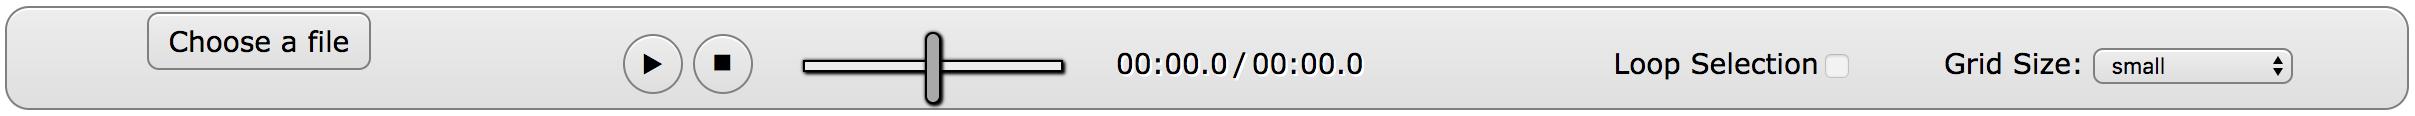
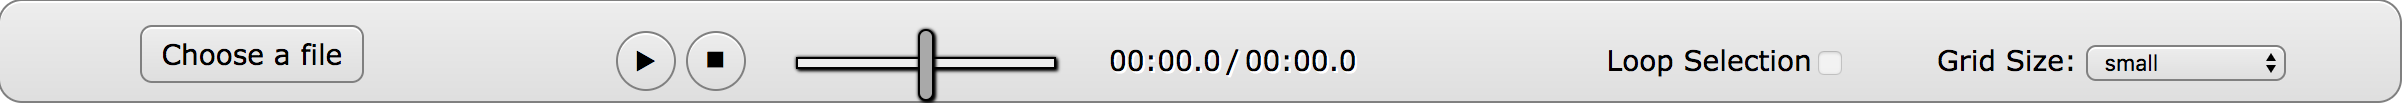
new images and new instructions

diff --git a/instructions.html b/instructions.html
@@ -35,18 +35,26 @@ contact: sascha.bilert@student.jade-hs.de
     <!-- link to css style -->
     <link rel="stylesheet" href="css/master.css" type="text/css">
     <link rel="stylesheet" href="css/instructionsstyle.css" type="text/css">
-    <link rel="stylesheet" href="assets/rainbow/themes/github.css" type="text/css">
+    <link rel="stylesheet" href="assets/rainbow/themes/github.css" type="text/css" media="screen">
 
     <!-- import image for tab icon -->
     <link rel="icon" type="image/png" href="image/icon.png">
 
+    <!-- import audioprocessing for plotly -->
     <script type="text/javascript" src="js/audioprocessing.js"></script>
-    <!-- include plotly latest version to visulize Data -->
+
+    <!-- import plotly latest version to visulize Data -->
     <script type="text/javascript" src="https://cdn.plot.ly/plotly-latest.min.js"></script>
     <script type="text/javascript" src="js/plot.js"></script>
-    <!-- include MathJax to user LateX for Math formular -->
+
+    <!-- import MathJax to user LateX for Math formular -->
     <script type="text/javascript" async src="https://cdn.mathjax.org/mathjax/latest/MathJax.js?config=TeX-MML-AM_CHTML"></script>
     <script type="text/x-mathjax-config">MathJax.Hub.Config({ tex2jax: {inlineMath: [['$','$'], ['\\(','\\)']]} });</script>
+
+    <!-- import rainbow.js and language -->
+    <script type="text/javascript" src="assets/rainbow/dist/rainbow.js"></script>
+    <script type="text/javascript" src="assets/rainbow/language/javascript.js"></script>
+    <script type="text/javascript" src="assets/rainbow/language/generic.js"></script>
 
 </head>
 
@@ -75,6 +83,7 @@ contact: sascha.bilert@student.jade-hs.de
         <li><a class="naviItems" href="#overlap">Overlap</a></li>
         <li><a class="naviItems" href="#displayType">Display-Types</a></li>
         <li><a class="naviItems" href="#colormap">Colormaps</a></li>
+        <li><a class="naviItems" href="#saveSpectrogram">Save Spectrogram</a></li>
     </ul>
 
     <h2>Instructions</h2>
@@ -88,29 +97,29 @@ contact: sascha.bilert@student.jade-hs.de
         to create a easy and useful tool to analyse audio files in terms of magnitude, phase and other values which are displayable and interpretable as an spectrogram. The user is able to apply diffrent settings for various examinations. We tried to
         describe all the parameters in a easy way in the instructions.</p>
     <h3><a id="choosingAFile">Choose a file:</a></h3>
-    <img class="zoomImg" id="choose" src="image/choose2.png">
+    <img class="resizeImg" id="upload" src="image/upload.png">
     <p>If you click on “Choose a file” you are able to import an audio file from you local computer. You can analyse different audio formats e.g. wav or mp3 if the are recognised by your browser
         <a href="https://developer.mozilla.org/en-US/docs/Web/HTML/Supported_media_formats" target="_blank">(Click here for more audio formats)</a>. After you choose a file the waveform and the magintude-spectrum will be calculated and displayed below
         the buttons after the loading screen disappeared. The upload button now shows the name of your uploaded file. By clicking the button again, you can upload a new audio file. Your audio data won’t be saved at any point just analysed.</p>
     <h3><a id="controlBar">Control Bar:</a></h3>
-    <img class="zoomImg" src="image/controlbar.png">
+    <img class="resizeImg" src="image/controlbar.png">
     <p>You can play, pause and stop your uploaded track by using the different buttons in the control bar. Here you also find the button "Choose a file" which was discribed in the section before. You can also adjust the volume by using the volume slider
         next to the stop button. The numbers display the current playback time and the total length of the track in MM:SS:m seperated by a slash. You can use the pause and play button to control the playback signal while you analyse it. It is also possible
         to loop a selected part of the audio file by ticking the box next to "Loop". How to select a part of your audio file is explained in the Waveform section. In case of analysis you can pick a matching grid size for the waveform including small,
         medium and large.
     </p>
     <h3><a id="waveform">Waveform:</a></h3>
-    <img class="zoomImg" src="image/waveform.png">
+    <img class="resizeImg" src="image/waveform.png">
     <p>The Waveform is compound by the linear amplitude (blue) and the RMS (lightblue). The RMS is calculated by $rms = \sqrt{\frac{1}{N}\sum \limits_{i=0}^{N} n_{i}^{2}}$. On the x-axis you have the time scale and on the y-axis you have .... In the upper
         left corner you can see a legend showing your current mouse position when you move over the waveform. The legend includes the time, amplitude and the RMS. When you hit play after uploading a audio file, a red line shows the current time point
         in the waveform. If you click into the waveform and drag your mouse backward or forward you can select a single part of the waveform. When you release the mouse button your selection is shaded in transparent red. If you now hit the play button
         you just play the selected part. It is also possible to use the Loop to repeat the selected audio part.
     </p>
     <h3><a id="spectrogram">Spectrogram:</a></h3>
-    <img class="zoomImg" src="image/spectrum.png">
+    <img class="resizeImg" src="image/spectrum.png">
     <p>The Spectrogram You can zoom in and out in the spectrum by using "Ctrl + mouse wheel" for the time axis and "Shift + mouse wheel" for the frequency axis.</p>
     <h3><a id="parameters">Parameters:</a></h3>
-    <img class="zoomImg" src="image/select.png">
+    <img class="resizeImg" src="image/parameters.png">
     <p>You can change the settings of the spectrum by choosing a block length, an overlap, a window type and a colormap. The default block length is 1024, the default window type is the hann window and the default overlap is 50%. The default type of the
         colormap is Parula, but you can choose between other 3 colormaps. For the spectrum you can choose a min and a max value for the visualization......... Depending on what you want to analyse you can choose the display type. You can visualise the
         spectrum, the phase, the modulation spectrum, the group delay and the instantaneous frequency of the signal.</p>
@@ -122,27 +131,23 @@ contact: sascha.bilert@student.jade-hs.de
     <p>HERE COMES AN EXPLANATION WHY THE WINDOW IS IMPORTANT FOR THE ANALYSIS</p>
     <h4>1. Rect Window</h4>
     <p class="windowDef">The Rect Window is defined by: $w(n) = 1$</p>
-    <div class="windows">
-        <div class="plot" id="divRect"></div>
-        <div class="code"><pre><code class="language-js">/*
+    <div class="plot" id="divRect"></div>
+    <pre class="code"><code data-language="javascript">/*
  * This code illustrates how to calculate a rect window
  */
 
  var windowLen = linspace(0, 1024, 1024);
- var windowValueHann = calculateWindow(windowLen);
+ var windowValueRect = calculateWindow(windowLen);
 
  function calculateWindow(windowLen) {
        var window = new Array(windowLen.length);
        window.fill(1);
        return window;
- };</code></pre>
-        </div>
-    </div>
+ }</code></pre>
     <h4>2. Hann Window</h4>
     <p class="windowDef">The Hann Window is defined by: $w(n) = \frac{1}{2}\left(1-cos\left(\frac{2\pi n}{N-1}\right)\right)$</p>
-    <div class="windows">
-        <div class="plot" id="divHann"></div>
-        <div class="code"><pre><code class="language-js">/*
+    <div class="plot" id="divHann"></div>
+    <pre class="code"><code data-language="javascript">/*
  * This code illustrates how to calculate a hann window
  */
 
@@ -156,31 +161,70 @@ contact: sascha.bilert@student.jade-hs.de
            windowLen[i] / (windowLen.length - 1)));
        }
        return window;
- };</code></pre>
-        </div>
-    </div>
+ }</code></pre>
     <h4>3. Hann-Poisson Window</h4>
     <p class="windowDef">The Hann-Poisson Window is defined by: $w(n) = \frac{1}{2}\left(1-cos\left(\frac{2\pi n}{N-1}\right)\right)e^{{\frac{-\alpha\vert N-1-2n\vert}{N-1}}}$</p>
     <div class="plot" id="divHannPoisson"></div>
+    <pre class="code"><code data-language="javascript">/*
+ * This code illustrates how to calculate a hann-poisson window
+ */
+
+ var windowLen = linspace(0, 1024, 1024);
+ var windowValueHannPoisson = calculateWindow(windowLen);
+
+ function calculateWindow(windowLen) {
+       // alpha is a parameter that controls the slope of the exponential
+       // (Wiki: https://en.wikipedia.org/wiki/Window_function)
+       var alpha = 2;
+       for (i = 0; i < windowLen.length; i++) {
+           window[i] = 0.5 * (1 - Math.cos(2 * Math.PI * windowLen[i] / (windowLen.length - 1)))
+           * Math.exp((-alpha * Math.abs(windowLen.length - 1 - (2 * windowLen[i])))
+           / (windowLen.length - 1));
+       }
+       return window;
+ }</code></pre>
     <h4>4. Cosine Window</h4>
     <p class="windowDef">The Cosine Window is defined by: $w(n) = cos\left(\frac{\pi n}{N-1}-\frac{\pi}{2}\right)$</p>
     <div class="plot" id="divCosine"></div>
+    <pre class="code"><code data-language="javascript">/*
+ * This code illustrates how to calculate a cosine window
+ */
+
+ var windowLen = linspace(0, 1024, 1024);
+ var windowValueCosine = calculateWindow(windowLen);
+
+ function calculateWindow(windowLen) {
+       var window = new Array(windowLen.length);
+       window.fill(1);
+       return window;
+ }</code></pre>
     <h4>5. Flat-Top Window</h4>
-    <p class="windowDef">The Flat-Top Window is defined by: $w(n) = \alpha_{0}-\alpha_{1}cos\left(\frac{2\pi n}{N-1}\right)+ \alpha_{2}cos\left(\frac{4\pi n}{N-1}\right)- \alpha_{3}cos\left(\frac{6\pi n}{N-1}\right)+ \alpha_{4}cos\left(\frac{8\pi n}{N-1}\right)$</p>
+    <p class="windowDef">The Flat-Top Window is defined by:</p>
+    <p class="windowDef">$w(n) = \alpha_{0}-\alpha_{1}cos\left(\frac{2\pi n}{N-1}\right)+ \alpha_{2}cos\left(\frac{4\pi n}{N-1}\right)- \alpha_{3}cos\left(\frac{6\pi n}{N-1}\right)+ \alpha_{4}cos\left(\frac{8\pi n}{N-1}\right)$</p>
     <p class="windowDef">$\alpha_{0} = 1$; $\alpha_{1} = 1.93$; $\alpha_{2} = 1.29$; $\alpha_{3} = 0.388$; $\alpha_{4} = 0.028$</p>
     <div class="plot" id="divFlatTop"></div>
+    <pre class="code"><code data-language="javascript">/*
+ * This code illustrates how to calculate a flat-top window
+ */
+
+ var windowLen = linspace(0, 1024, 1024);
+ var windowValueFlatTop = calculateWindow(windowLen);
+
+ function calculateWindow(windowLen) {
+       var window = new Array(windowLen.length);
+       window.fill(1);
+       return window;
+ }</code></pre>
     <h4>6. Kaiser-Bessel Window</h4>
     <p class="windowDef">The Rect-Window is defined by: $w(n) = \frac{I_{0}\left(\pi\alpha\sqrt{1-\left(\frac{2n}{N-1}-1\right)^{2}}\right)}{I_{0}\left(\pi\alpha\right)}$</p>
     <div class="plot" id="divKaiserBessel"></div>
     <h3><a id="overlap">Overlap:</a></h3>
     <p>HERE COMES SOMETHING ABOUT THE OVERLAP</p>
-
     <h3><a id="displayType">Display-Types:</a></h3>
     <p>HERE COMES SOMETHING ABOUT THE display type</p>
-
     <h3><a id="colormap">Colormaps:</a></h3>
     <p>HERE COMES SOMETHING ABOUT THE colormap</p>
-
+    <h3><a id="saveSpectrogram">Save Spectrogram:</a></h3>
 </body>
 
 </html>

diff --git a/js/plot.js b/js/plot.js
@@ -32,6 +32,7 @@ function plotWindow() {
         }
     ];
     var layout = {
+        title: 'Hann Window',
         xaxis: {
             title: 'samples',
             titlefont: {
@@ -49,7 +50,7 @@ function plotWindow() {
             }
         }
     };
-    Plotly.newPlot('divHann', data, layout);
+    Plotly.newPlot('divHann', data, layout, {showLink: false});
 
     var windowValueRect = calculateWindow(windowLen, "rect");
     windowValueRect.fill(0, 0, 81);
@@ -62,6 +63,7 @@ function plotWindow() {
         }
     ];
     var layout = {
+        title: 'Rect Window',
         xaxis: {
             title: 'samples',
             titlefont: {
@@ -90,6 +92,7 @@ function plotWindow() {
         }
     ];
     var layout = {
+        title: 'Hann-Poisson Window',
         xaxis: {
             title: 'samples',
             titlefont: {
@@ -118,6 +121,7 @@ function plotWindow() {
         }
     ];
     var layout = {
+        title: 'Cosine Window',
         xaxis: {
             title: 'samples',
             titlefont: {
@@ -146,6 +150,7 @@ function plotWindow() {
         }
     ];
     var layout = {
+        title: 'Flat-Top Window',
         xaxis: {
             title: 'samples',
             titlefont: {
@@ -174,6 +179,7 @@ function plotWindow() {
         }
     ];
     var layout = {
+        title: 'Kaiser-Bessel Window',
         xaxis: {
             title: 'samples',
             titlefont: {

diff --git a/css/instructionsstyle.css b/css/instructionsstyle.css
@@ -36,7 +36,7 @@ h4 {
     margin-left: 200px;
 }
 
-img.zoomImg {
+img.resizeImg {
     display: block;
     margin: auto;
     margin-top: 50px;
@@ -45,7 +45,7 @@ img.zoomImg {
     height: 70%;
 }
 
-img.zoomImg#choose {
+img.resizeImg#upload {
     width: 40%;
     height: 40%;
 }
@@ -59,28 +59,30 @@ p {
     line-height: 160%;
 }
 
-p.windowDef {
-    margin-bottom: 0px;
+code {
+    text-align: left;
 }
 
-div.windows {
-    margin-left: auto;
-    margin-right: auto;
-    position: relative;
-    width: 1200px;
+p.windowDef {
+    margin-bottom: 0px;
+    text-align: left;
+    line-height: 100%;
 }
 
 div.plot {
-    display: inline-block;
-    float: left;
-    width: 50%;
-    height: 50%;
+    position: static;
+    margin: auto;
+    width: 40%;
+    height: 40%;
 }
 
-div.code {
-    display: inline-block;
-    margin-left: 630px;
+pre.code {
+    position: static;
+    margin: auto;
+    margin-left: 200px;
+    margin-right: 200px;
     width: auto;
+    height: auto;
 }
 
 ul.navigation {
